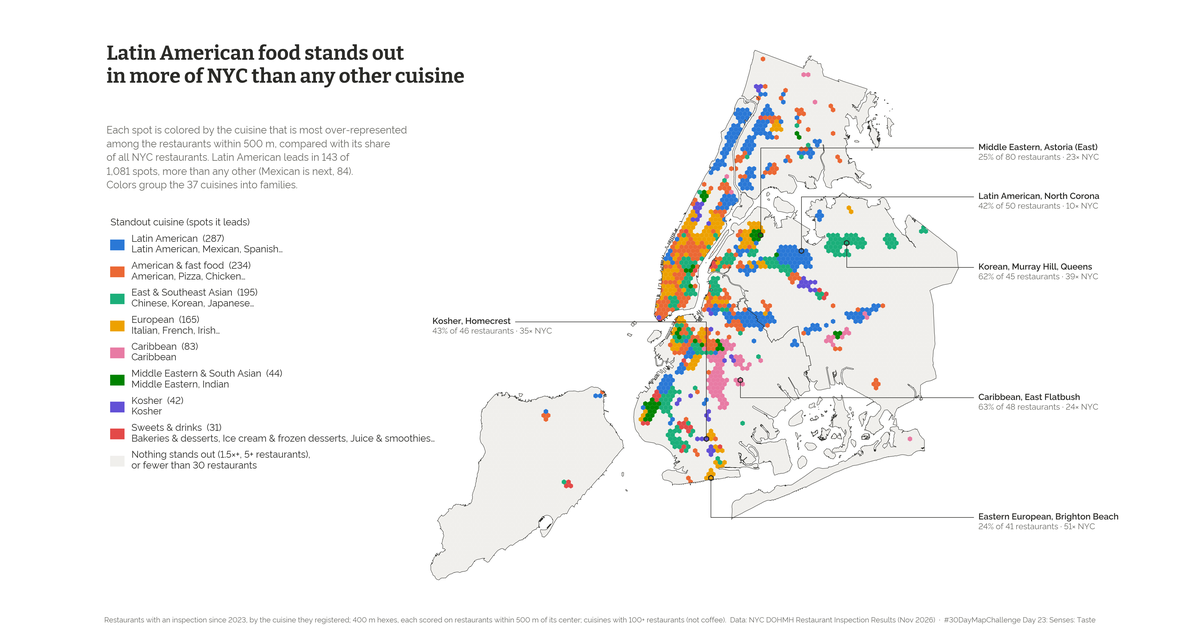
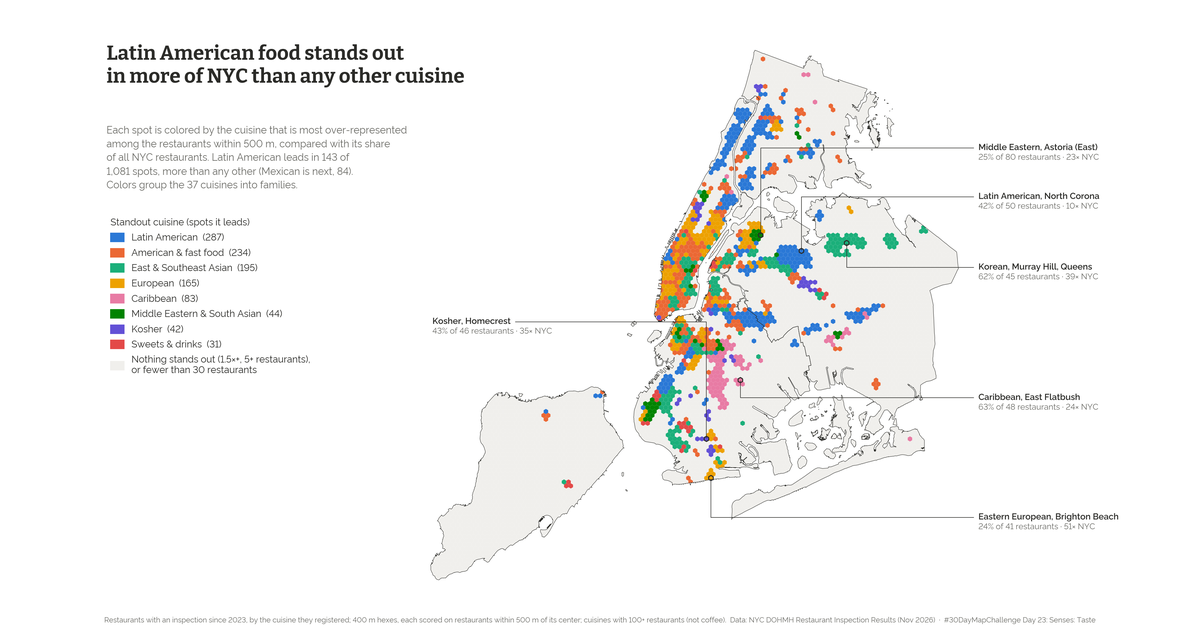
Day 23: flavor PNG legend shows one line per family

Changed region(s): [[0.0925, 0.3619, 0.37, 0.754]]

diff --git a/day23-taste/build.py b/day23-taste/build.py
@@ -412,16 +412,12 @@ def flavor_png(boros, land, hexes, views, fl):
              f"{total:,} spots, more than any other ({fl['by_cuisine'].index[1]} is next, {int(fl['by_cuisine'].iloc[1])}).\n"
              f"Colors group the {len(views)} cuisines into families.",
              ha="left", va="top", fontsize=S.SIZE["subtitle"] + 1, color=S.MUTED, linespacing=1.5)
-    handles = []
-    for i, (name, _) in enumerate(FAMILIES):
-        cs = [c for c in fl["by_cuisine"].index if FAMILY_OF[next(v["key"] for v in views if v["label"] == c)] == i][:3]
-        handles.append(Patch(color=S.CATEGORICAL[i], label=f"{name}  ({int(fl['by_family'].get(i, 0))})\n" +
-                             ", ".join(cs) + ("…" if len([c for c in fl["by_cuisine"].index
-                                                          if FAMILY_OF[next(v['key'] for v in views if v['label'] == c)] == i]) > 3 else "")))
+    handles = [Patch(color=S.CATEGORICAL[i], label=f"{name}  ({int(fl['by_family'].get(i, 0))})")
+               for i, (name, _) in enumerate(FAMILIES)]
     handles.append(Patch(color=LAND, label=f"Nothing stands out ({BINS[0]:g}×+, {FLAVOR_MIN_K}+ restaurants),\nor fewer than {MIN_N} restaurants"))
     fig.legend(handles=handles, loc="upper left", bbox_to_anchor=(0.03, 0.66), fontsize=S.SIZE["legend"] + 1,
                title="Standout cuisine (spots it leads)", title_fontsize=S.SIZE["legend"] + 1, alignment="left",
-               handlelength=1.4, handleheight=1.2, labelspacing=0.75, borderaxespad=0, labelcolor=S.INK)
+               handlelength=1.4, handleheight=1.0, labelspacing=0.6, borderaxespad=0, labelcolor=S.INK)
     S.credit(fig, f"Restaurants with an inspection since {ACTIVE_SINCE[:4]}, by the cuisine they registered; {HEX} m hexes, "
                   f"each scored on restaurants within {R} m of its center; cuisines with {MIN_CUISINE}+ restaurants "
                   f"(not coffee).  Data: NYC DOHMH Restaurant Inspection Results (Nov 2026)  ·  #30DayMapChallenge {DAY}")
